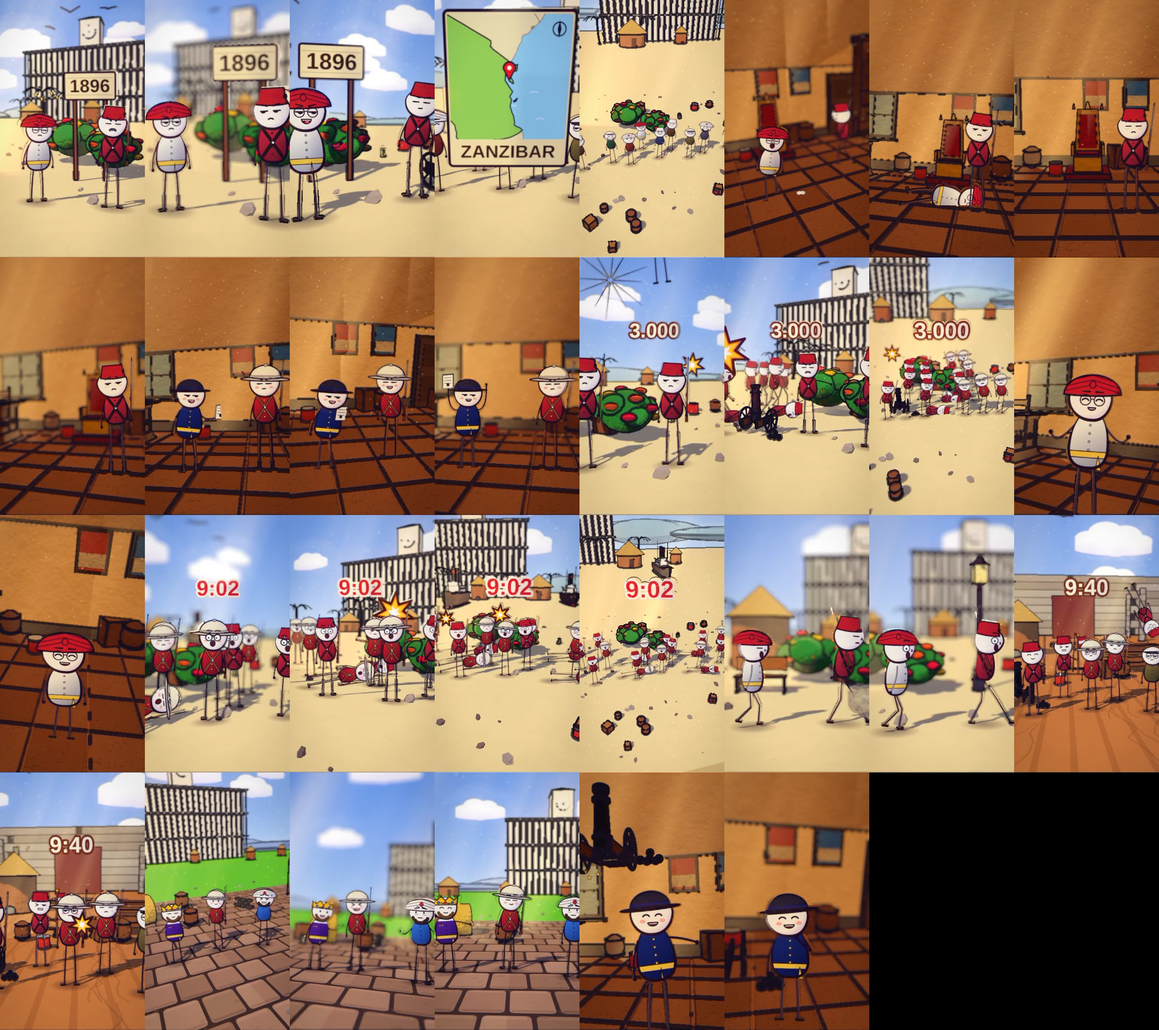
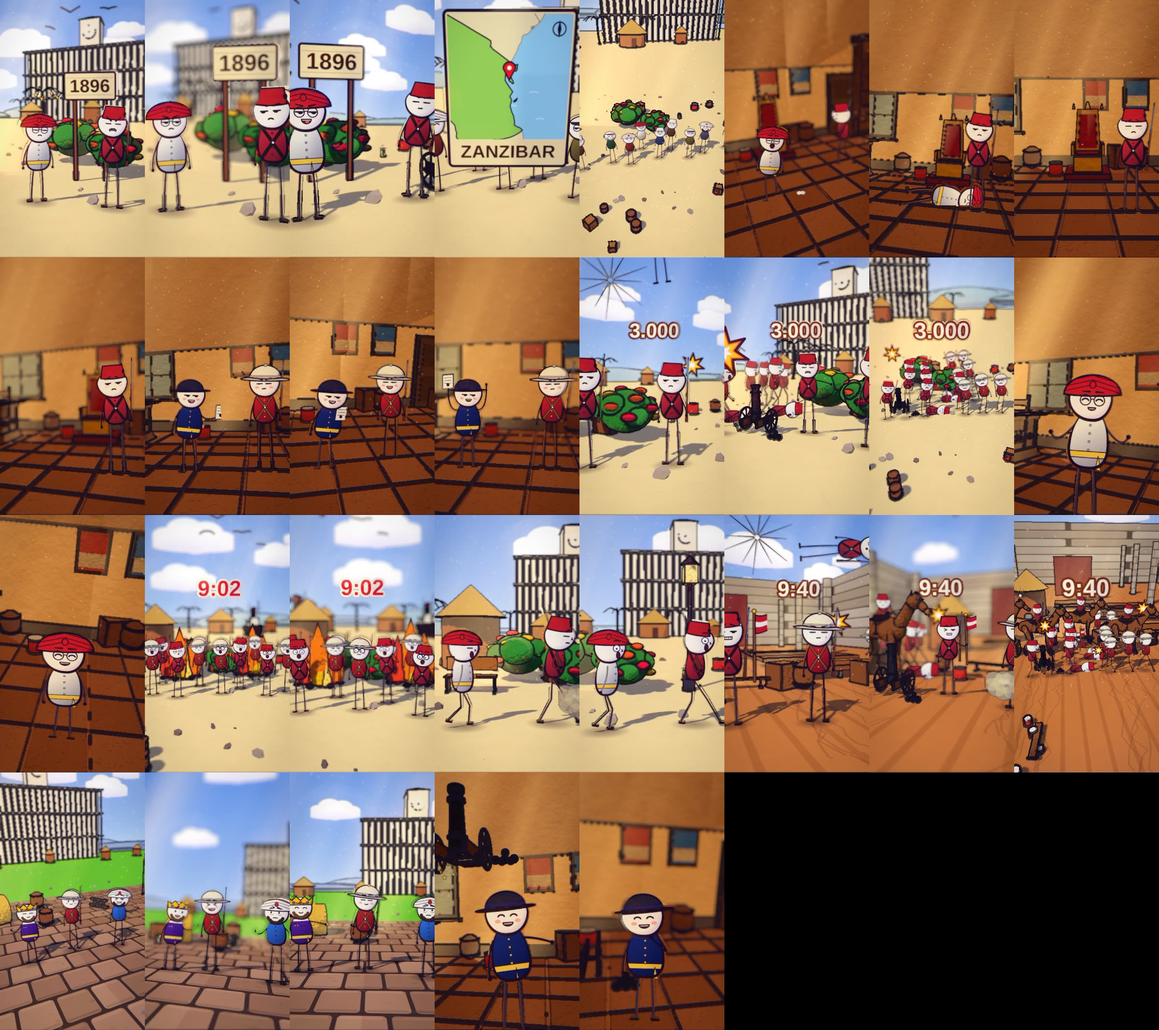
sessao A: lancachamas aprovado
Claude-Session: https://claude.ai/code/session_01WNYYpR2eGm1WHv4JW2i7zj

diff --git a/ferramenta-shorts/stories/lancachamas2018/revisao_storyboard.md b/ferramenta-shorts/stories/lancachamas2018/revisao_storyboard.md
@@ -1,9 +1,9 @@
-b0: CORRIGIDO - Boring Company vende produto nos Estados Unidos, lanca-chamas visivel em escala real, predios coloniais no lugar dos de tijolo de Nova York (frase: No começo de dois mil e dezoito, nos Estados Unidos, a Boring Company, a)
-b1: CORRIGIDO - lanca-chamas heroi em escala real e close de camera, o nome Nao e um lanca-chamas (frase: O nome dele era Não é um lança-chamas.)
-b2: CORRIGIDO - preco de quinhentos dolares na placa US$ 500, cenario de montanha (frase: O preço era de quinhentos dólares.)
+b0: CORRIGIDO - a Boring Company de Elon Musk comecou a vender um produto nos Estados Unidos: lanca-chamas em escala real ao lado de Musk com Hollywood ao fundo, Califórnia colonial (frase: No começo de dois mil e dezoito, nos Estados Unidos, a Boring Company, a)
+b1: CORRIGIDO - o nome dele era Nao e um lanca-chamas: lanca-chamas heroi em close (frase: O nome dele era Não é um lança-chamas.)
+b2: CORRIGIDO - o preco era de quinhentos dolares: placa US$ 500 em cenario de montanha (frase: O preço era de quinhentos dólares.)
 b3: OK - storyboard conferido, a cena mostra a frase com personagens, lugar e objetos certos: O nome dizia que não era, mas o aparelho tinha cara de lança-chamas, e
-b4: CORRIGIDO - extinguisher de brinde e fogo, de dia na California colonial (frase: Cada compra vinha com um extintor de incêndio de brinde.)
-b5: OK - storyboard conferido, a cena mostra a frase com personagens, lugar e objetos certos: Foram vinte mil unidades à venda.
-b6: OK - storyboard conferido, a cena mostra a frase com personagens, lugar e objetos certos: E elas esgotaram em poucos dias, rendendo cerca de dez milhões de dólares.
+b4: CORRIGIDO - cada compra vinha com um extintor de brinde: extintor ao lado de uma fogueira (frase: Cada compra vinha com um extintor de incêndio de brinde.)
+b5: CORRIGIDO - vinte mil unidades a venda: multidao de compradores (frase: Foram vinte mil unidades à venda.)
+b6: CORRIGIDO - esgotaram em poucos dias rendendo dez milhoes: multidao e dinheiro (frase: E elas esgotaram em poucos dias, rendendo cerca de dez milhões de dólares.)
 b7: OK - storyboard conferido, a cena mostra a frase com personagens, lugar e objetos certos: A notícia se espalhou pelo mundo inteiro.
-b8: CORRIGIDO - lanca-chamas e extintor ao fim, close final do objeto heroi (frase: Um produto que se chamava de tudo, menos do que parecia.)
+b8: CORRIGIDO - produto que se chamava de tudo menos do que parecia: lanca-chamas e extintor ao fim (frase: Um produto que se chamava de tudo, menos do que parecia.)
